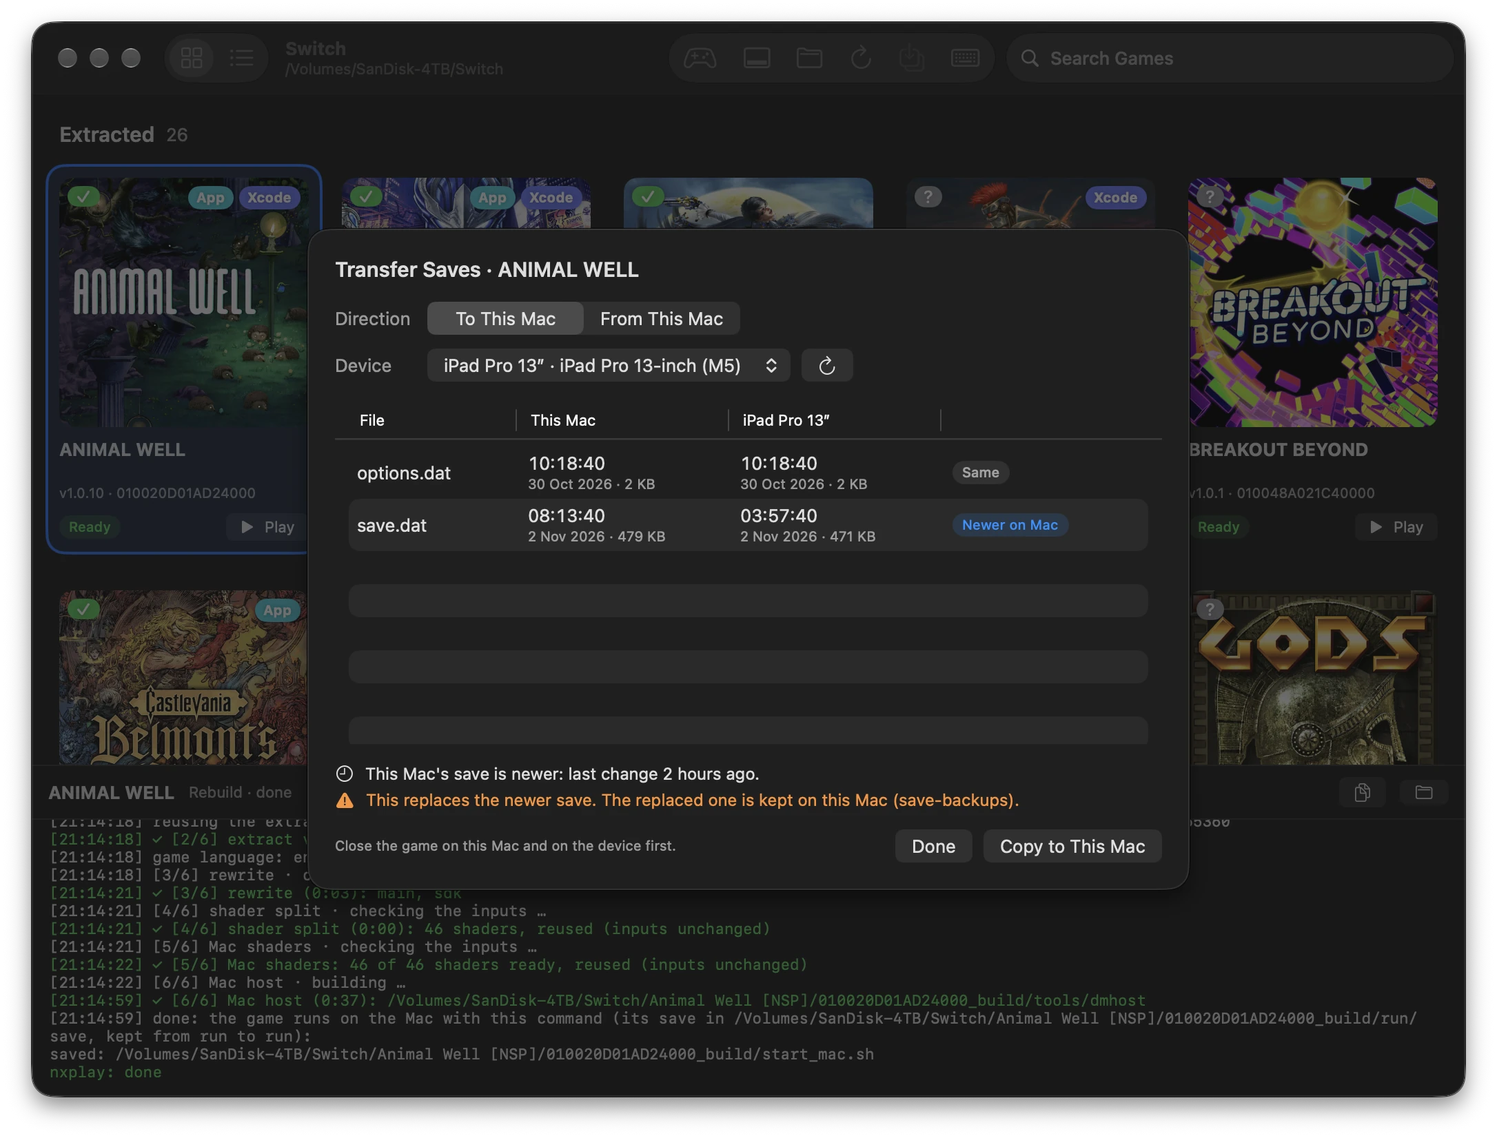
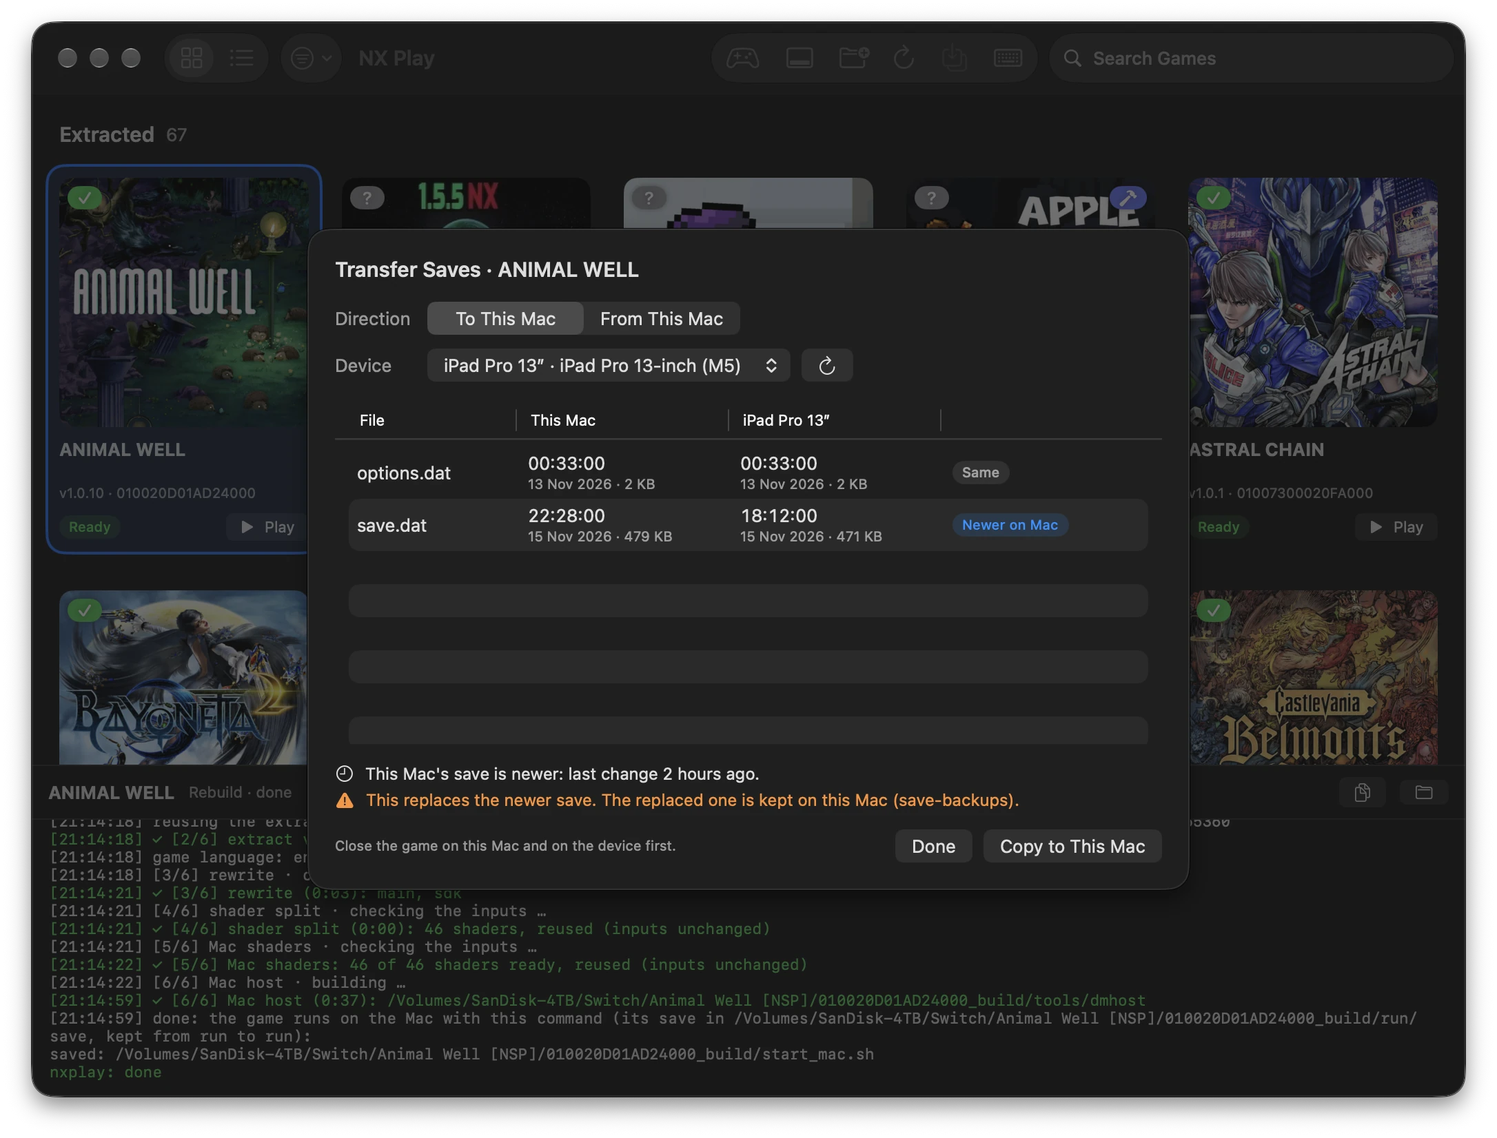
Refresh the README and its screenshots for 2.1
The screenshots were from Nov 2: Free Up Space lacked the shader caches,
device install copies and Metal leftovers, Devices lacked QR pairing and
the addresses, and the Install & IPA window had none. The text now names
certificate signing and the game files copied on their own up front, and
the long Make Mac App and Frame rate entries read as sub-points; the
repack's "couple of minutes" no longer holds since nxnative signs the
large files apart.

Screenshot mode picks the library window by title, since Free Up Space's
can be the larger one, sizes Free Up Space for the capture, and keeps the
sample certificate past the password field's first write.

diff --git a/Packages/NXPlayKit/Sources/NXPlayKit/Screenshots.swift b/Packages/NXPlayKit/Sources/NXPlayKit/Screenshots.swift
@@ -18,6 +18,8 @@
         /// Settings › Devices with the iPhone & iPad App section on.
         case devices
         case transferSaves = "transfer-saves"
+        /// The Install & IPA window: the game files apart, signed with a certificate.
+        case installIPA = "install-ipa"
     }
 
     @MainActor
@@ -115,6 +117,9 @@
             case .transferSaves:
                 library.jobs[game.id] = job(for: game, finished: true)
                 library.transfer = transfer(for: game)
+            case .installIPA:
+                library.openPacking(game, toDevice: true)
+                library.packing.map(Self.samplePacking)
             }
             Task { @MainActor in await present(library) }
             return library
@@ -222,6 +227,22 @@
             return lines
         }
 
+        /// The game files apart and a certificate's signing, with a sample certificate and profile (no files read).
+        @MainActor private static func samplePacking(_ packing: Packing) {
+            packing.deviceID = devices[0].id
+            packing.withGameFiles = false
+            packing.signing = .certificate
+            packing.p12Path = tilde(NSHomeDirectory() + "/Certificates/Distribution.p12")
+            packing.profilePath = tilde(NSHomeDirectory() + "/Certificates/Games.mobileprovision")
+            packing.password = "sample-password"
+            packing.showScreenshot(
+                certificate: .valid(name: "iPhone Distribution: Example Team (ABCDE12345)"),
+                profile: ProvisioningProfile(
+                    name: "Games", teamID: team.id, teamName: team.name, appID: "*",
+                    expires: Calendar.current.date(byAdding: .month, value: 10, to: .now)!,
+                    devices: devices.map(\.id), allDevices: false))
+        }
+
         /// A save newer on this Mac than on the iPad, the case Transfer Saves warns about.
         @MainActor private func transfer(for game: Game) -> SaveTransfer {
             let titleID = (game.titleID ?? "").lowercased()
@@ -261,10 +282,11 @@
             let windows = NSApp.windows.filter {
                 $0.isVisible && $0.sheetParent == nil && $0.level == .normal
             }
-            let main = windows.max {
-                $0.frame.width * $0.frame.height < $1.frame.width * $1.frame.height
-            }
-            let ownWindow = scene == .settings || scene == .devices || scene == .freeUpSpace
+            // the library's window by its title: Free Up Space's can be the bigger one
+            let main =
+                windows.first { $0.title == "NX Play" }
+                ?? windows.max { $0.frame.width * $0.frame.height < $1.frame.width * $1.frame.height }
+            let ownWindow = scene == .settings || scene == .devices || scene == .freeUpSpace || scene == .installIPA
             if let main, !ownWindow {
                 main.setContentSize(Self.windowSize)
                 main.center()
@@ -280,6 +302,11 @@
                     $0.isVisible && $0 !== main && $0.sheetParent == nil && $0.level == .normal
                 }
                 : main
+            // Free Up Space opens at the size it was last left at
+            if scene == .freeUpSpace, let target {
+                target.setContentSize(Self.windowSize)
+                target.center()
+            }
             target?.makeKeyAndOrderFront(nil)
             target?.makeFirstResponder(nil)  // no focused, selected text field
             try? await Task.sleep(for: .seconds(0.5))

diff --git a/Packages/NXPlayKit/Sources/NXPlayKit/Library+Pack.swift b/Packages/NXPlayKit/Sources/NXPlayKit/Library+Pack.swift
@@ -102,7 +102,22 @@ public final class Packing {
         }
     }
 
+    #if DEBUG
+        /// Screenshot mode's sample certificate, which the password field's first write mustn't check away.
+        @ObservationIgnored private var sampleCertificate: SigningCertificate.Check?
+
+        /// Screenshot mode's sample certificate and profile, in place of what the files say.
+        func showScreenshot(certificate: SigningCertificate.Check, profile: ProvisioningProfile) {
+            sampleCertificate = certificate
+            self.certificate = certificate
+            self.profile = profile
+        }
+    #endif
+
     private func checkCertificate() {
+        #if DEBUG
+            if let sampleCertificate { return certificate = sampleCertificate }
+        #endif
         certificate = p12Path.isEmpty ? nil : SigningCertificate.check(URL(filePath: p12Path), password: password)
     }
 

diff --git a/Packages/NXPlayKit/Sources/NXPlayKit/Views/RootView.swift b/Packages/NXPlayKit/Sources/NXPlayKit/Views/RootView.swift
@@ -88,6 +88,9 @@ public struct RootView: View {
                     if library.screenshotScene == .freeUpSpace {
                         openWindow(id: CleanupView.windowID)
                     }
+                    if library.screenshotScene == .installIPA {
+                        openWindow(id: PackView.windowID)
+                    }
                 }
             #endif
     }

diff --git a/README.md b/README.md
@@ -4,7 +4,7 @@
 
 - A library of your games with their icons: extract them, play them on the Mac, rebuild them.
 - Console Mode for the couch: full screen, driven by a game controller.
-- Install a game on your iPhone or iPad through Xcode, or build an IPA to sideload.
+- Install a game on your iPhone or iPad, signed by Xcode or with your own certificate, or build an IPA to sideload. The game files can go to the device on their own, so reinstalls after a rebuild stay small.
 - Copy saves between the Mac and a device, after seeing which one is newer, and back them up to your own private Git repository while you play.
 - Pull nxnative's latest fixes before a play and rebuild when they change something, after asking whether to update now or play the current build. Or keep a build that works as it is.
 
@@ -39,7 +39,7 @@ NX Play takes the other route: one app for all your games, everything portable a
 - A Mac with Apple silicon and macOS 15 or later. On an Intel Mac, IPAs and device installs work, but games cannot run on the Mac.
 - [Xcode](https://apps.apple.com/app/xcode/id497799835), opened once. Setup downloads its Metal Toolchain. For iPhone and iPad, its iOS platform too.
 - [Homebrew](https://brew.sh): Setup installs the other tools with it.
-- For Install on Device: an Apple developer account, signed in under Xcode › Settings › Apple Accounts.
+- For Install on Device: an Apple developer account, signed in under Xcode › Settings › Apple Accounts, or a `.p12` certificate with its provisioning profile.
 
 ## Install
 
@@ -101,18 +101,22 @@ Right-click a game for more, or use the **Game** menu:
 
 - **Rebuild**: builds the game again with the current nxnative.
 - **Keep This Build**: for a game that plays well. nxnative updates no longer rebuild it, and a lock badge marks it. While it's kept, Install on Device, Build IPA and Make Mac App are off, since they'd rewrite files the kept build runs. Rebuild still replaces it.
-- **Game Settings…** (⌥⌘,): the settings nxnative offers for the game, with the defaults it was tested with. Depending on the game these include frame rate, render scale, docked or handheld, upscaling, language, window or full screen, rumble and performance switches. The basic ones come first; the rest are under Advanced settings. Each one follows Settings › Games until you change it for the game. A changed value is tinted and has its own reset button, and **Use Global Settings** resets them all. They apply the next time the game starts, and the log lists them. The game's Mac app shares the game's own values: NX Play keeps them where nxnative's own settings window does. A game nxnative has no profile for gets NX Play's **Frame rate (untested)** instead: **60 fps**, or **120 fps** on a Mac with a 120 Hz screen, a frame each display refresh whatever rate the game asks for. That plays at the right speed in a game that keeps time by the clock, and too fast in one that counts frames, so time a race or a walk before you keep it. A game nxnative has a profile for runs at the rate it was tested at, often 60 already, so it doesn't get this setting. It's the game's own rate by default, each game's own, and the game's Mac app doesn't have it.
+- **Game Settings…** (⌥⌘,): the settings nxnative offers for the game, with the defaults it was tested with. Depending on the game these include frame rate, render scale, docked or handheld, upscaling, language, window or full screen, rumble and performance switches. The basic ones come first; the rest are under Advanced settings. Each one follows Settings › Games until you change it for the game. A changed value is tinted and has its own reset button, and **Use Global Settings** resets them all. They apply the next time the game starts, and the log lists them. The game's Mac app shares the game's own values: NX Play keeps them where nxnative's own settings window does.
+  - **Frame rate (untested)**: for a game nxnative has no profile for, NX Play's own setting. **60 fps**, or **120 fps** on a Mac with a 120 Hz screen, shows a frame each display refresh whatever rate the game asks for. That plays at the right speed in a game that keeps time by the clock, and too fast in one that counts frames, so time a race or a walk before you keep it. It's off by default, each game's own, and the game's Mac app doesn't have it. A game nxnative has a profile for runs at the rate it was tested at, often 60 already, so it doesn't get this setting.
 - **Install on Device…** and **Build IPA…**: both open the **Install & IPA** window for the game, which starts from your last choices:
   - **Make**: install on a device (paired with Xcode, in Developer Mode, reachable over USB or Wi-Fi), or an IPA file in the game folder for AltStore, Sideloadly and the like.
   - **Game files**: **In the app**, the whole game in one install. **Copied on their own** leaves the game's RomFS out, so the app is a fraction of the size and quick to reinstall after a rebuild. On a device, NX Play copies the game files into the app's folder once per game version: over USB with libimobiledevice's `afcclient` (`brew install libimobiledevice`, about 30 MB/s), or over Wi-Fi only for a game smaller than half the Mac's memory, as Xcode's `devicectl` reads the whole file into memory. Later installs of the same version skip the copy. Deleting the app on the device deletes the files too, so **Copy them again** sends them anew. For an IPA file, Finder shows its `RomFS.img` (in the build folder) beside it: after installing the IPA, copy it into the app's folder on the device yourself (Finder › the device › Files, or the Files app).
   - **Signing**: **Xcode** builds the game signed with your team, then installs and starts it. **A certificate (.p12) and its provisioning profile** signs the IPA, as sideloading tools do, without an Apple account in Xcode: NX Play checks the password and shows the profile's team, app ID, devices and expiry, and installs it on a device the profile lists. The password is kept in your login keychain. An IPA file can also stay **unsigned** for a sideloading tool, which signs it with its own account.
-- **Make Mac App**: a standalone, double-clickable app of the game (nxnative's `--platform mac-app`) in the game folder, for the Dock or Launchpad. It's made of APFS clones of the extracted files, so it takes almost no space on the same volume. Once a game has its app, **Play** starts the app, so the Dock shows the game's own name and icon, with the game's save and cheats from its folder and NX Play's settings. When an nxnative update rebuilds the game, the app is packed again with it, which adds a couple of minutes to the rebuild, so Play keeps starting the app. When that can't happen (the game files were removed, or the packing failed), Play uses the build: an orange **App** badge and Console Mode's "App out of date" say so, and **Update Mac App** in the Game menu packs it again. Opened from Finder or the Dock, the app plays on from the same save too: NX Play points it there through the app's `env.txt` in `~/Library/Application Support/nxnative/<title ID>`. The exception is an app that already has a save of its own from before. That one keeps it, and while the two saves differ, **Play** asks which one to use: NX Play's, the app's, or the newer one. **Don't ask again** keeps the answer for the game; **Ask Again** in Game Settings undoes it. The log names the save each play uses.
-- **Transfer Saves**: compares the Mac's save with a device's, file by file, and copies one over the other. The replaced save is kept in `<title ID>_build/run/save-backups`.
+- **Make Mac App**: a standalone, double-clickable app of the game (nxnative's `--platform mac-app`) in the game folder, for the Dock or Launchpad. It's made of APFS clones of the extracted files, so it takes almost no space on the same volume.
+  - **Play** then starts the app, so the Dock shows the game's own name and icon, with the game's save and cheats from its folder and NX Play's settings.
+  - **After an nxnative update**, the rebuild packs the app again. When that can't happen (the game files were removed, or the packing failed), Play uses the build: an orange **App** badge and Console Mode's "App out of date" say so, and **Update Mac App** in the Game menu packs it again.
+  - **Opened from Finder or the Dock**, the app plays on from the same save: NX Play points it there through the app's `env.txt` in `~/Library/Application Support/nxnative/<title ID>`. An app that already had a save of its own keeps it, and while the two saves differ, **Play** asks which one to use: NX Play's, the app's, or the newer one. **Don't ask again** keeps the answer for the game; **Ask Again** in Game Settings undoes it. The log names the save each play uses.
+- **Transfer Saves**: copies a save between the Mac and a device ([Saves](#saves)).
 - **nxnative Notes…** (⌥⌘I): what nxnative says about the game: tested, in bring-up, or no profile (a badge on the artwork says the same), and the profile's commits since your build (a blue badge counts them).
 - **Show in Finder**, **Open Save Folder**, **Open Cheats Folder**, **Open Mods Folder**, **Open Build Logs**.
 - **Remove Game…** (⌘⌫): deletes the game's files, build, IPAs and Mac app for good. Anything else in its folder stays. Its saves and cheats stay too, in the folder, unless you also remove the saves; put the game files back and it plays on from them. You confirm by typing the phrase it shows.
 
-![Transfer Saves: the Mac's save is newer than the iPad's](docs/transfer-saves.webp)
+<img src="docs/install-ipa.webp" alt="Install &amp; IPA: install on an iPhone with the game files copied on their own, signed with a certificate and its provisioning profile" width="560">
 
 ### iPhone and iPad
 
@@ -136,7 +140,7 @@ Connecting:
 - **Where the code goes**: the device sends its saved code only to the addresses you confirmed when pairing (the QR code's, the one you typed, or those of the Mac you picked). When Bonjour finds your Mac's ID at another address, the library says so and offers **Pair Again with QR Code…**; it doesn't send the saved code there, because anything on the network can claim the Mac's ID (it's public: Bonjour and `/v1/hello` give it to anyone). Requests go straight to the Mac, never through a proxy, and redirects aren't followed. Cancel and Unpair stop a pairing under way.
 - **What this relies on**: NX Play talks plain HTTP and the Mac has no key the device checks, so the network matters. On Wi-Fi the code travels unencrypted, as a typed code always did: someone who can read that network's traffic, or take over one of the confirmed addresses there, can learn it. Pair on a network you trust, and use **New Code** if you doubt it. Over Tailscale the traffic is encrypted by WireGuard and the `100.x` addresses belong to your tailnet's devices, but only while Tailscale is connected on the device: without it, a `100.x` address belongs to whatever network the device is on.
 
-<img src="docs/devices.webp" alt="Settings › Devices: the Apple team, and the iPhone & iPad App section with the Mac's address, the pairing code and Install NX Play" width="560">
+<img src="docs/devices.webp" alt="Settings › Devices: the Apple team, and the iPhone &amp; iPad App section with the pairing code, Show QR Code, Install NX Play, the Mac's addresses and Tailscale" width="560">
 
 The header shows which Mac the device is connected to. Games installed from now on open from the launcher: nxplay gives each one the URL scheme `nxplay-<title ID>`. A game installed before that needs **Reinstall from the Mac** once. The launcher asks the Mac what's on the device whenever it comes to the front, or when you pull down to refresh. A game deleted from the home screen then shows as **Removed from this iPhone** (or iPad), with a one-tap reinstall, because the Mac remembers which games each device has had. A connected controller works too:
 - the d-pad or left stick moves through the games
@@ -165,6 +169,10 @@ Games in a games folder both Macs have, such as one on a file server, are the sa
 A folder shared from a Mac with File Sharing works. If it's on an external drive, turn off **Ignore ownership on this volume** in its Get Info first, or the other Mac is told the share doesn't exist. Before building over the network, nxplay switches a game's shader cache out of SQLite's WAL mode, which a network volume can't open: a game built from the drive on the sharing Mac has its cache in that mode. A NAS that strips the execute permission from files, such as a UniFi one, builds a game once, but a rebuild can fail with `Permission denied` when the build runs one of its own tools there a second time.
 
 ### Saves
+
+**Transfer Saves** (Game menu) compares the Mac's save with a device's, file by file, and copies one over the other. The replaced save is kept in `<title ID>_build/run/save-backups`.
+
+![Transfer Saves: the Mac's save is newer than the iPad's](docs/transfer-saves.webp)
 
 **Save backup** (Settings › Saves): pick a clone of your own private Git repository. While a game plays, NX Play copies its save into a folder named after the game and its title ID (`the-legend-of-zelda-tears-of-the-kingdom-0100f2c0115b6000`) each time the game saves, then commits and pushes. It does this once more when the game quits. Pushing uses your own Git setup (SSH agent or keychain) and never prompts. The log shows each backup. Games started from the Terminal with `nxplay` aren't backed up.
 
@@ -207,7 +215,7 @@ Everything the game runs uses it (extract, play, rebuild, IPA, Mac app, device i
 
 Pick files one by one, a whole game, or a whole kind. Nothing is selected until you pick it, and deleting needs you to type “yes, I'm sure”. Everything is deleted for good, not moved to the Trash.
 
-![Free Up Space: game files, IPAs and Xcode builds per game, with their sizes](docs/free-up-space.webp)
+![Free Up Space: game files, builds, shader compile caches, IPAs, Xcode builds, device install copies, Mac apps and Metal's leftovers, per game with their sizes](docs/free-up-space.webp)
 
 nxnative unpacks an NSZ or XCZ into the build folder's `nsp/` before building, and keeps that copy, so the game takes up its space about twice, and a build without the folder unpacks it again. **Settings › General › Keep only the unpacked copy of NSZ and XCZ games** stops that. Once a game is built for the Mac, its unpacked NSP or XCI moves into the game folder and the NSZ or XCZ goes to the Trash; from then on the game builds from the NSP. Only a file nxnative recorded as unpacked from exactly that NSZ moves, and nothing moves while the game builds or runs. Turning it on offers to do the same for the games built already. It's off by default, since it changes your own files.
 
@@ -283,7 +291,7 @@ Controllers are detected automatically, with buttons by position (right A, botto
 NX Play builds and runs games with [nxnative](https://github.com/seedds/nxnative). It doesn't touch the games themselves, so most game problems belong there:
 
 - **Report to [nxnative's issues](https://github.com/seedds/nxnative/issues):** a game that crashes, freezes, shows a black screen or glitches. Also a game that doesn't boot on the Mac or on an iPhone or iPad, and a build or IPA that fails in one of nxnative's steps (extract, rewrite, shader split, shaders, Mac host, Xcode project). Search first: the game may be known, or not supported yet. Include the game's title ID and version, your Mac or device, and the step's log from **Open Build Logs**.
-- **Report [here](https://github.com/varyform/nx-native-wrapper/issues):** NX Play's own windows and buttons, Setup, updates, Install on Device, Transfer Saves, Save backup, Console Mode and the controller, Free Up Space, and `nxplay` itself.
+- **Report [here](https://github.com/varyform/nx-native-wrapper/issues):** NX Play's own windows and buttons, Setup, updates, Install on Device and Build IPA, Transfer Saves, Save backup, Console Mode and the controller, Free Up Space, and `nxplay` itself.
 
 Not sure? Run nxnative's build script on the game yourself (`python3 scripts/build_ipa_from_nsp.py <game folder> -k ~/.switch/prod.keys` in the nxnative folder; `--platform mac` for the Mac). If it fails the same way, it's nxnative's.
 
@@ -317,7 +325,7 @@ To work in Xcode, run `xcodegen generate` (or `mise run generate`) and open `NXP
 
 `Package.swift` in the root exists only so SourceKit-LSP (Zed, VS Code, …) understands the app's sources; build and test with the Xcode project and `Packages/NXPlayKit`.
 
-`bin/screenshots [games folder]` regenerates the screenshots in `docs/`. It needs a folder with at least one extracted game (default `~/Games/Switch`), and it shows the folder's real games, with their names and icons. Everything else is sample data: paths under `~`, an example team, devices and controller, a scripted build log. `bin/screenshots ~/Games/Switch console` redoes just one scene (library, list, console, console-details, free-up-space, settings, devices, transfer-saves). `NXPLAY_SCREENSHOT_GAME="Breath of the Wild"` (a title ID or part of a name) picks the game Console Mode shows. The data lives in `Screenshots.swift`, which only Debug builds include. It needs `cwebp` (`brew install webp`) and Screen Recording permission for your terminal.
+`bin/screenshots [games folder]` regenerates the screenshots in `docs/`. It needs a folder with at least one extracted game (default `~/Games/Switch`), and it shows the folder's real games, with their names and icons. Everything else is sample data: paths under `~`, an example team, devices and controller, a scripted build log. `bin/screenshots ~/Games/Switch console` redoes just one scene (library, list, console, console-details, free-up-space, settings, devices, transfer-saves, install-ipa). `NXPLAY_SCREENSHOT_GAME="Breath of the Wild"` (a title ID or part of a name) picks the game Console Mode shows. The data lives in `Screenshots.swift`, which only Debug builds include. It needs `cwebp` (`brew install webp`) and Screen Recording permission for your terminal.
 
 ## License
 
